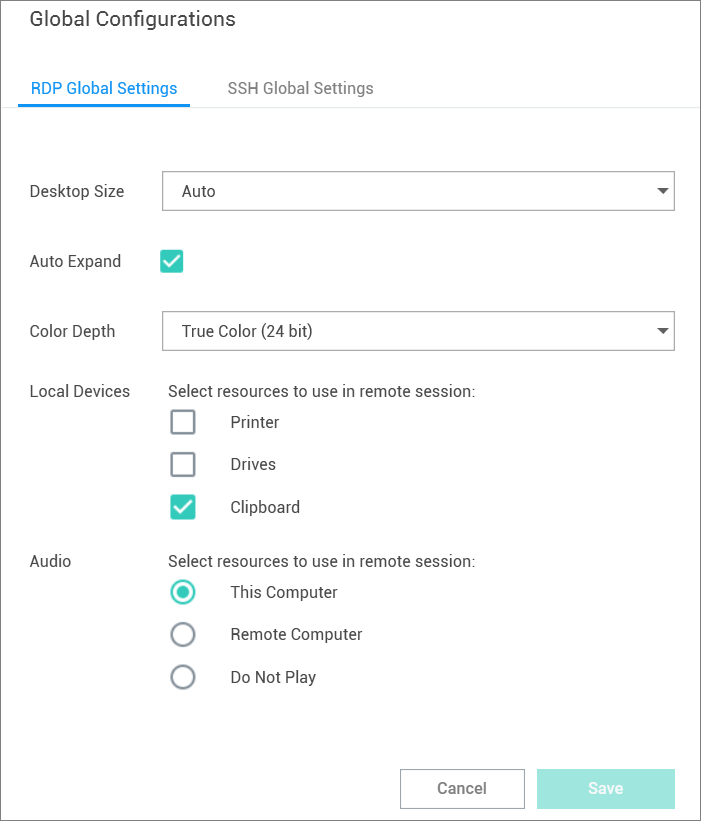
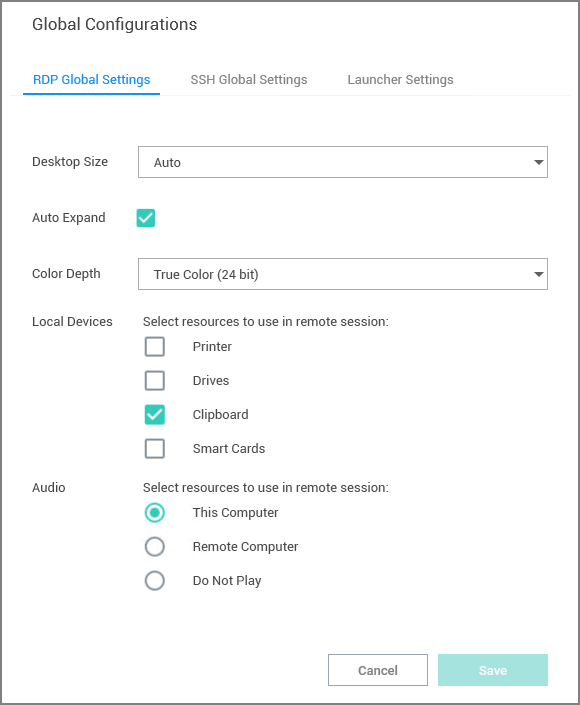
part 2 updates - todo import of CSV files

diff --git a/global-settings/index.md b/global-settings/index.md
@@ -9,11 +9,17 @@ Global Settings allows a user to control default parameter values when creating 
 
    ![Global Configurations](images/global-1.png "Global Configurations page")
 
-The available options are accessible via tab controls and include RDP Global Settings and SSH Global Settings:
+The available options are accessible via tab controls and include
 
-* These default options may be overridden within the individual connections.
-* Connections from Secret Server do not support all available parameters. In such cases the default parameters will be substituted.
-* Any of the default configuration values that are specified in a Secret, from a Secret Server connection, will use the values from the Secret instead of the Global Configurations.
+* __RDP Global Settings__ - allows to specify default desktop size settings, etc.
+* __SSH Global Settings__ - allows to specify the default font, etc.
+* __Launcher Settings__ - allows administrators to switch protocol handlers.
+
+All default options may be overridden within the individual connections. Connections from Secret Server do not support all available parameters. In such cases the default parameters will be substituted.
+
+Any of the default configuration values that are specified in a Secret, from a Secret Server connection, will use the values from the Secret instead of the Global Configurations.
+
+When accessing the Launcher Settings tab, Connection Manager checks for the legacy protocol handler. To make any changes the user needs to be an administrator. Connection Manager detects the file type version appropriately.
 
 ## Globally Enforced Secret Server Settings
 

diff --git a/launchers/index.md b/launchers/index.md
@@ -15,6 +15,8 @@ If Connection Manager is launched using the protocol handler and is in the "Lock
 
 >**Note**: Local Connections are limited to RDP and SSH launchers.
 
+## Switching to/from Full-Screen Mode
+
 When switching RDP sessions to or from full-screen mode, Connection Manager does not reconnect the RDP session. The RDP Proxy uses one time passwords and Connection Manager cannot reconnect without generating the new RDP proxy username/password and ConnectionManager does not re-create Secret Server sessions when switching between screen modes.
 
 ## Session Recording

diff --git a/common-user/import.md b/common-user/import.md
@@ -1,0 +1,18 @@
+[title]: # (Import)
+[tags]: # (user)
+[priority]: # (501)
+# Import of CSV Files
+
+Connection Manager allows the import of Connection Manager .JSON, CSV, and RDP files for local connections data.
+
+1. Right-click on __Local Connections__.
+1. Select __Import__.
+
+   ![import](images/import.png "Import menu options")
+1. Select from the import options available based on your source file.
+
+## Importing Local Connection Data
+
+The following example shows what to expect when importing local connections into your Connection Manager instance.
+
+1. 

diff --git a/ts/index.md b/ts/index.md
@@ -10,7 +10,7 @@ This section provides helpful troubleshooting tips and answer to frequently aske
 * [AVBlock Error with Session Recording](avblock-error.md)
 * [Host Names](host-names.md)
 * [Invocation Error on Connect](invocation-error-ss.md)
-* [Import/Export](import-export.md)
+* [Encryption](encryption.md)
 * [Licensing](licenses.md)
 * [Related Resources](related-res.md)
 <!-- * [Workflows](workflows.md) -->

diff --git a/common-user/log-files.md b/common-user/log-files.md
@@ -1,0 +1,14 @@
+[title]: # (Log Files)
+[tags]: # (user)
+[priority]: # (501)
+# Log Files
+
+The Connection Manager log files can be found at the following default locations.
+
+## Windows Log File Location
+
+C:\Users\Administrator\AppData\Roaming\Thycotic\Connection Manager
+
+## MacOS Log File Location
+
+Catalina: ~/Library/Application Support/Thycotic/Connection Manager/ConnectionManager.log

diff --git a/common-user/index.md b/common-user/index.md
@@ -9,3 +9,5 @@ Since there are many variations and configuration options for remote connectivit
 * [Connection to Remote Systems](connections/remote-conn/index.md)
 * [Integrated Connections](connections/integrated-conn/index.md)
 * [Re-authenticate to Secret Server](connections/reauth.md)
+* [Import of Local Connection Data Files](import.md)
+* [Log File Location](log-files.md)

diff --git a/ts/encryption.md b/ts/encryption.md
@@ -1,0 +1,9 @@
+[title]: # (Encryption)
+[tags]: # (integrity)
+[priority]: # (705)
+# Encryption
+
+<!-- * Import is only available in the navigation panel -->
+* Encryption for CM login:
+
+  * 256-bit encryption > AES 256. To check its integrity, we use HMAC + AES 256
